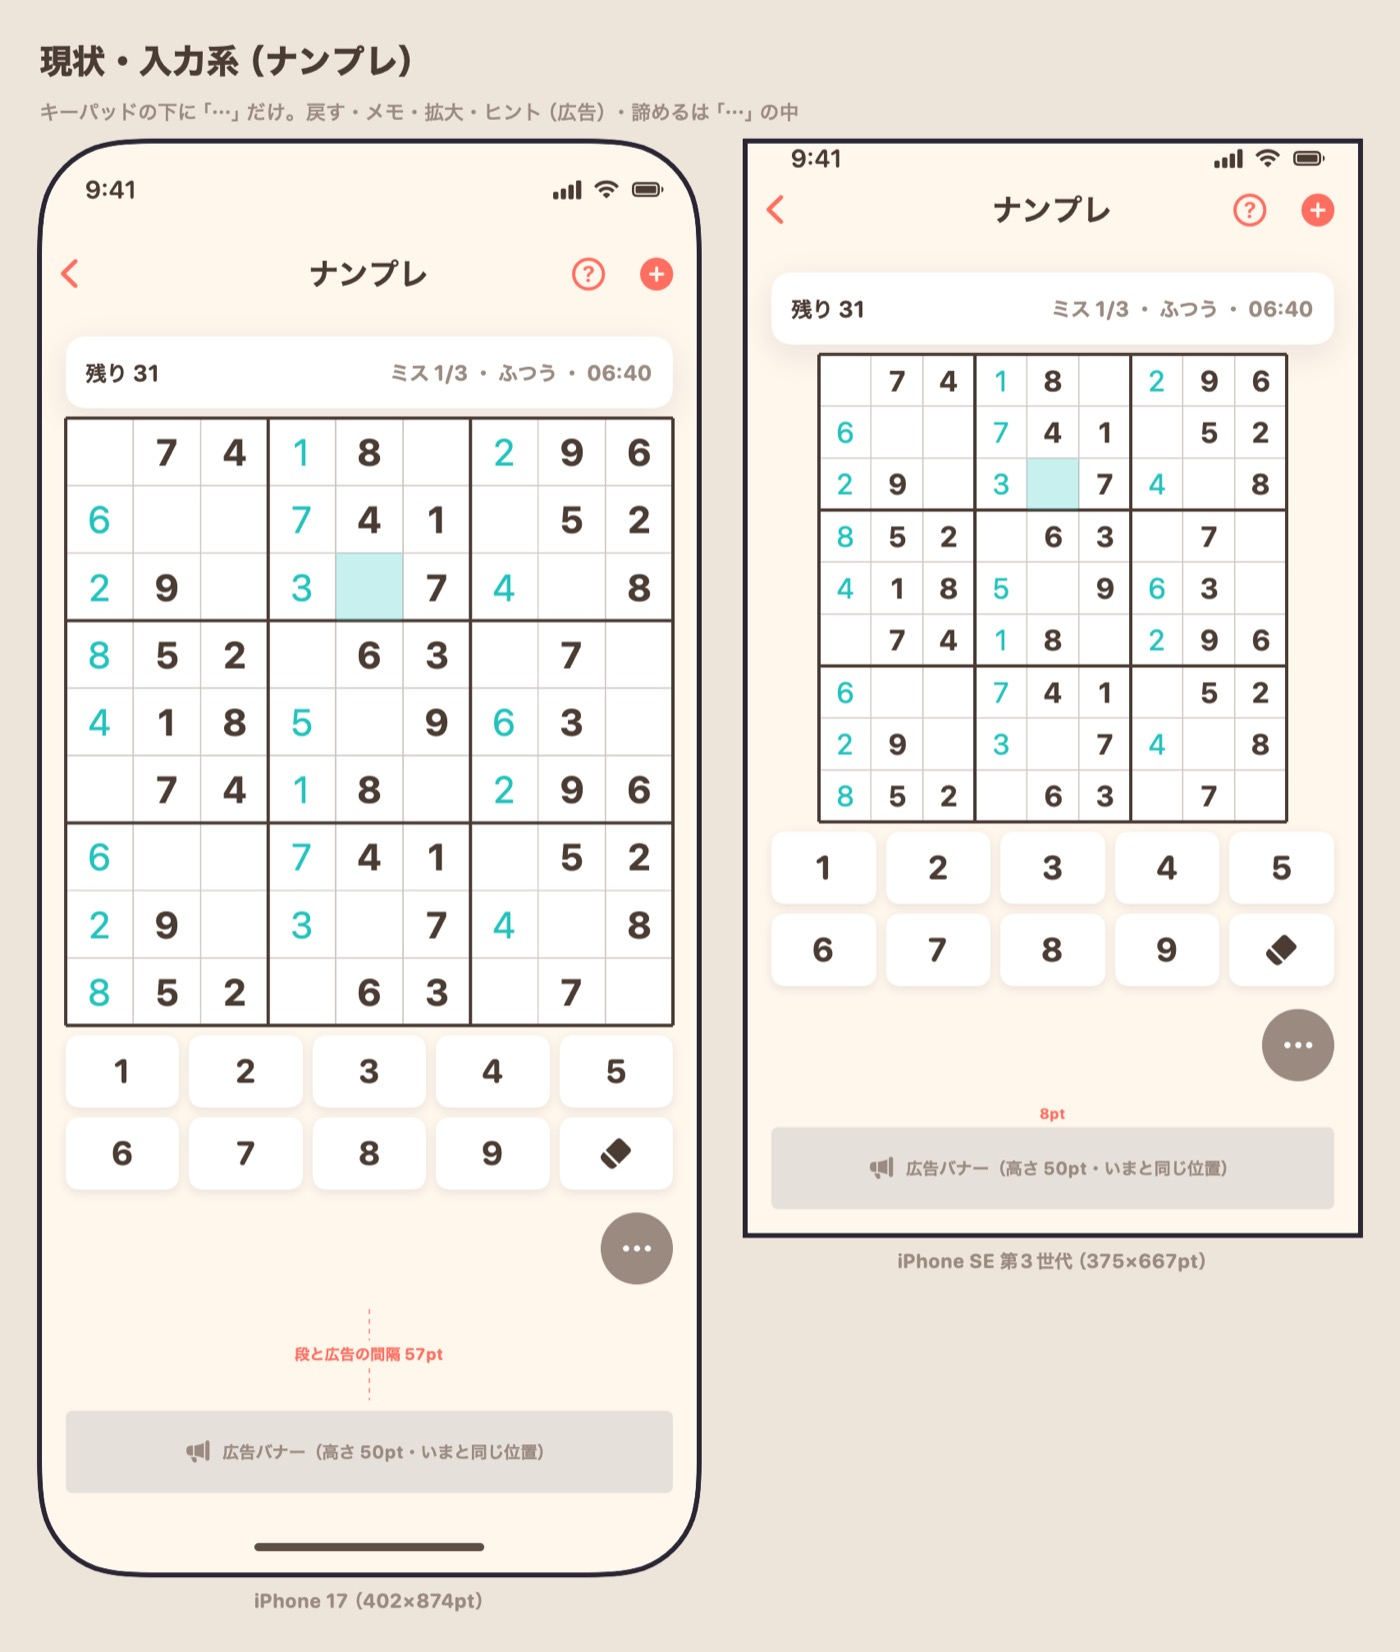
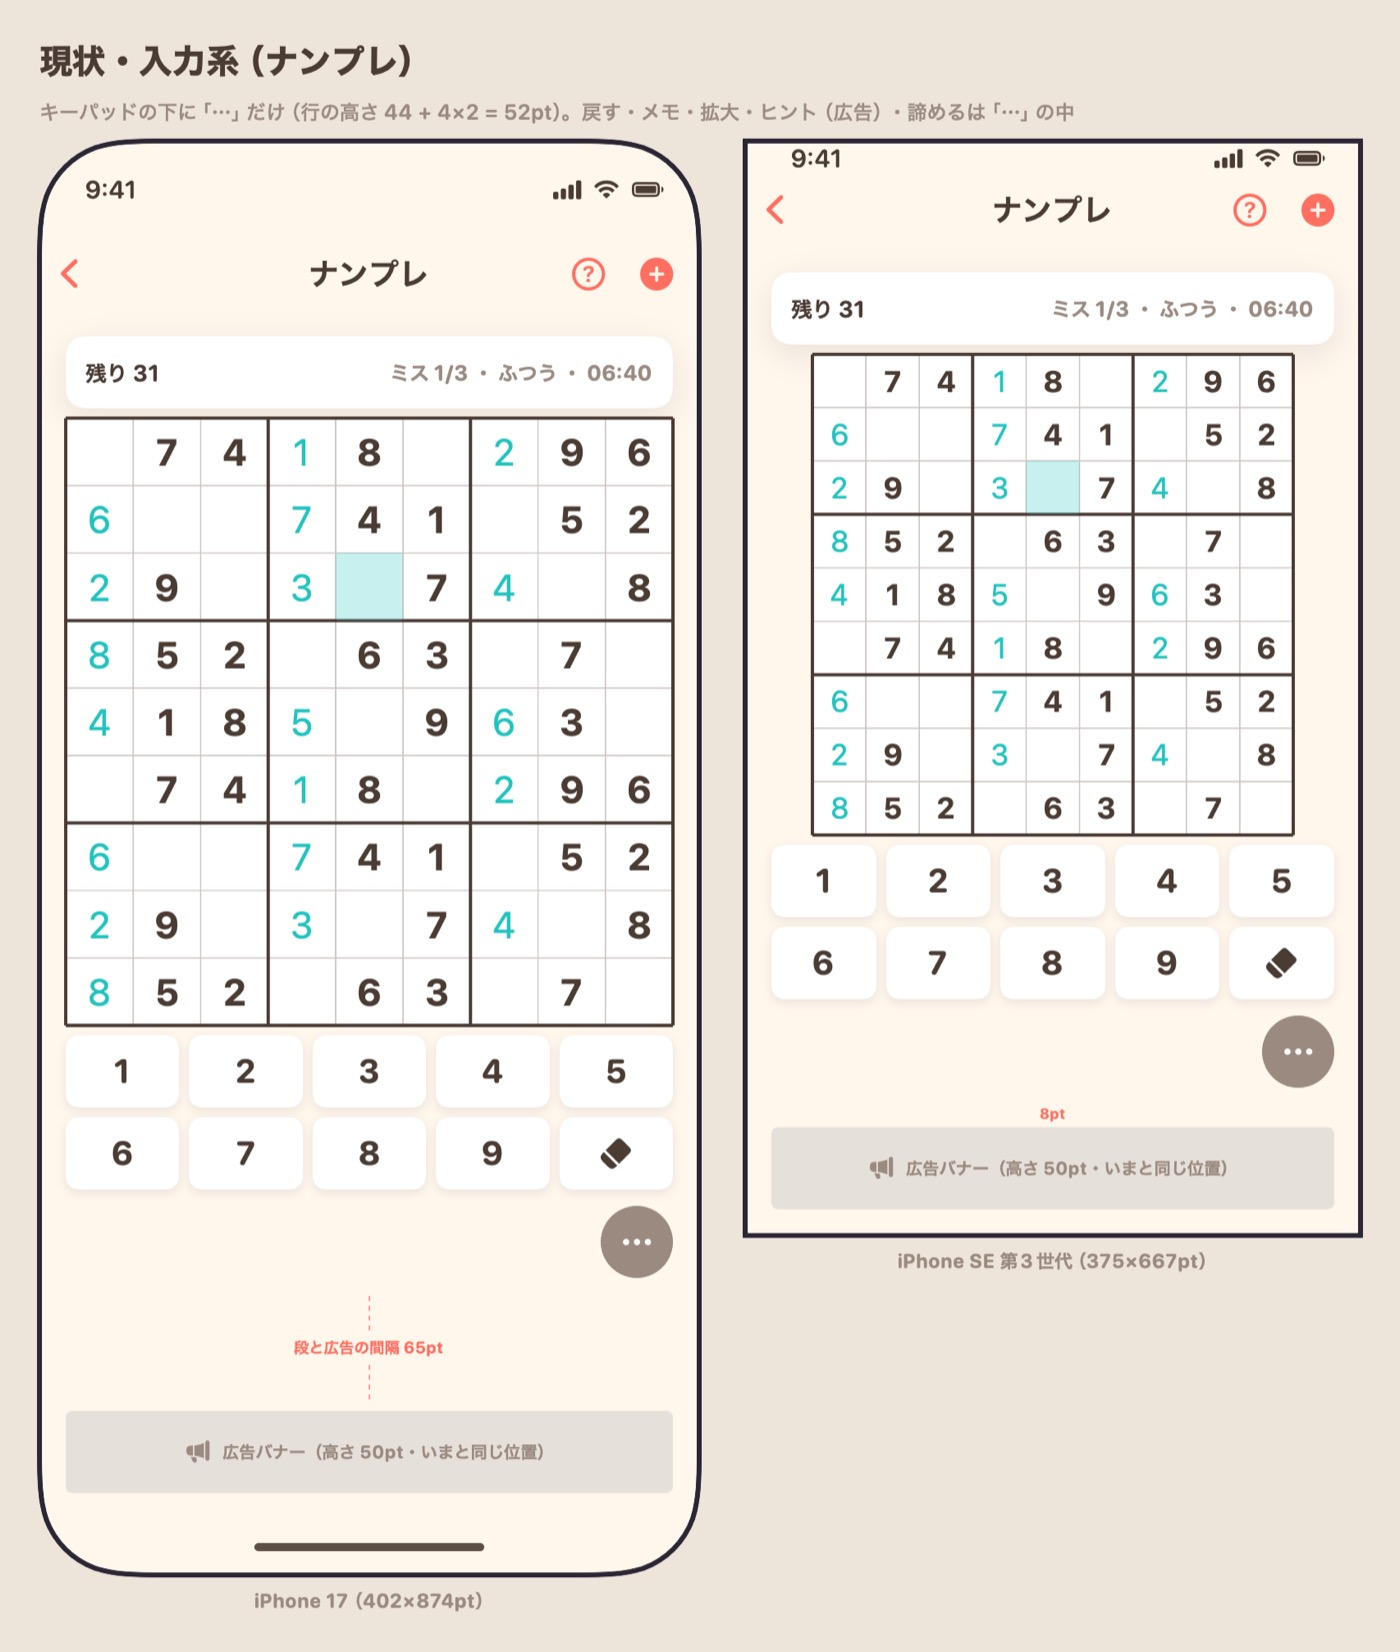
docs(design): 操作の段モックの前提を訂正（今の「⋯」の行は 46/52/60pt でゲームにより違う）（#1834）
verifier の指摘 3 件を反映。盤ゲーム 5 本の「⋯」の行は 44+1×2=46pt、ナンプレは 52pt、花札 48pt で、60pt なのは 6 本だけ。
「段を 60pt にしても盤は縮まない」を撤回し、余白を各ゲームの今の値に揃えれば縮まないと書き直した。
「⋯」の行を持つ本数を 17→13 に、大富豪の投了の「上がり後は薄く」を「メニューごと非表示」に訂正。
現状 2 枚（将棋・ナンプレ）は実際の行の高さで描き直した。

diff --git a/docs/design/action-row/mock.swift b/docs/design/action-row/mock.swift
@@ -105,6 +105,8 @@ enum RowStyle: String { case current = "現状", a = "A", b = "B", c = "C" }
 /// いまの「⋯」の行（GameOverflowBar）。左端に表示だけの文字、右端に丸 44pt。
 struct RowCurrent: View {
     var caption: String?
+    /// 上下の余白。盤ゲーム 5 本は 1pt（`BoardGameControlMetrics.rowVerticalPadding`）、ナンプレは 4pt、他は既定の 8pt。
+    var verticalPadding: CGFloat = 8
     var body: some View {
         HStack(spacing: 8) {
             if let caption { Text(caption).rounded(12, .bold).foregroundStyle(T.inkSub) }
@@ -112,7 +114,7 @@ struct RowCurrent: View {
             MoreButton()
         }
         .frame(minHeight: 44)
-        .padding(.vertical, 8)
+        .padding(.vertical, verticalPadding)
     }
 }
 
@@ -262,9 +264,9 @@ struct MoreButton: View {
     }
 }
 
-@ViewBuilder func actionRow(_ style: RowStyle, _ actions: [Action], caption: String?) -> some View {
+@ViewBuilder func actionRow(_ style: RowStyle, _ actions: [Action], caption: String?, currentPadding: CGFloat = 8) -> some View {
     switch style {
-    case .current: RowCurrent(caption: caption)
+    case .current: RowCurrent(caption: caption, verticalPadding: currentPadding)
     case .a: RowA(actions: actions)
     case .b: RowB(actions: actions)
     case .c: RowC(actions: actions)
@@ -701,7 +703,7 @@ struct Screen: View {
                     // 大富豪は進行ボタン（出す・パス）が段の位置を占める。補助操作は投了だけなので「⋯」に残る
                     EmptyView()
                 } else {
-                    actionRow(style, actions, caption: caption)
+                    actionRow(style, actions, caption: caption, currentPadding: currentRowPadding)
                 }
                 GapMarker(minimum: gapMinimum)
                 Banner()
@@ -719,6 +721,15 @@ struct Screen: View {
         case .daifugo: "大富豪"
         case .concentration: "神経衰弱"
         case .runner: "チャリンコおじさん"
+        }
+    }
+
+    /// いまの「⋯」の行の上下余白（release/v1.1.10 の実値）。
+    var currentRowPadding: CGFloat {
+        switch group {
+        case .shogi, .go: 1      // BoardGameControlMetrics.rowVerticalPadding → 行は 46pt
+        case .sudoku: 4          // SudokuView: verticalPadding: 4 → 52pt
+        default: 8               // GameOverflowBar の既定 → 60pt
         }
     }
 
@@ -890,8 +901,8 @@ MainActor.assumeIsolated {
     let dir = URL(fileURLWithPath: CommandLine.arguments.count > 1 ? CommandLine.arguments[1] : ".")
 
     // 現状（比較の基準）
-    sheet(dir, "00-current-shogi.png", "現状・対局系（将棋）", "待った・ヒント・投了はすべて右下の「⋯」の中。段には何も出ていない（v1.1.7 の #1468 以降）", .shogi, .current, [])
-    sheet(dir, "00-current-sudoku.png", "現状・入力系（ナンプレ）", "キーパッドの下に「⋯」だけ。戻す・メモ・拡大・ヒント（広告）・諦めるは「⋯」の中", .sudoku, .current, [])
+    sheet(dir, "00-current-shogi.png", "現状・対局系（将棋）", "待った・ヒント・投了はすべて右下の「⋯」の中。行の高さは 44 + 1×2 = 46pt（盤ゲーム 5 本）。段を 60pt にすると SE では盤がその差ぶん縮みうる", .shogi, .current, [])
+    sheet(dir, "00-current-sudoku.png", "現状・入力系（ナンプレ）", "キーパッドの下に「⋯」だけ（行の高さ 44 + 4×2 = 52pt）。戻す・メモ・拡大・ヒント（広告）・諦めるは「⋯」の中", .sudoku, .current, [])
 
     // 対局系
     sheet(dir, "01-shogi-A.png", "案A・対局系（将棋：待った → ヒント → ⋯）", "役割の色（待った＝ティール・ヒント＝黄）で塗ったカプセルを等幅で並べ、右端に今の「⋯」。広告が要るときは「▶ 広告を見て」、無料のあいだは「あと◯回」を 2 行目に", .shogi, .a, shogiActions)

diff --git a/docs/design/action-row/README.md b/docs/design/action-row/README.md
@@ -82,7 +82,7 @@
 | ブラックジャック | 結果まで進める | 段（ディーラーが引く間） | なし | — | `BlackjackView.swift:374-382` |
 | ブラックジャック | 広告を見て 2000 枚で復活 | 幕（セッション終了） | 1 セッション 1 回（`revival`） | 条件外は非表示 | `BlackjackView.swift:506-522` |
 | 大富豪 | パス／n 枚出す | 段 | なし | 薄く | `GameDaifugo/DaifugoView.swift:319-326` |
-| 大富豪 | 投了（確認あり） | 行の右端の `ellipsis.circle`（素の `Menu`。丸 44pt ではない） | なし | 上がり後は薄く | `DaifugoView.swift:330-340` |
+| 大富豪 | 投了（確認あり） | 行の右端の `ellipsis.circle`（素の `Menu`。丸 44pt ではない） | なし | 上がり後はメニューごと非表示（`canResign` が false になるのは上がり後だけ） | `DaifugoView.swift:309-316,330-340` |
 | 大富豪 | 結果まで進める | 段（自分が上がった後） | なし | — | `DaifugoView.swift:309-316` |
 | 大富豪 | 広告を見て次のカード交換を免除 | 幕（リザルト・大貧民のとき） | 1 回（`revival`） | 条件外は非表示 | `DaifugoView.swift:360-380` |
 | 花札こいこい | こいこい／あがり | 段（こいこい局面） | なし | あがりは条件で薄く | `GameHanafuda/HanafudaView.swift:340-344` |
@@ -111,9 +111,14 @@
 
 ### 1-e. 画面の縦構成（共通）
 
-対局系・一人用パズル系の 17 本は **帯 → 盤 → 「⋯」の行（44pt + 上下 8pt = 60pt）→ Spacer → バナー（50pt）** で揃っている
+「⋯」の行を持つ 13 本（盤ゲーム 5 本 + `GameOverflowBar` を直接呼ぶ 8 本）は **帯 → 盤 → 「⋯」の行 → Spacer → バナー（50pt）** で揃っている
 （`GameOverflowBar`・`GameControlArea`・#1485）。例外は上の 1-c・1-d と、キーパッドが盤の直下に入るナンプレ、
 「⋯」の行を盤と同じ `GeometryReader` に入れている神経衰弱・花札。
+
+**「⋯」の行の高さはゲームで違う**（verifier 指摘・2026-10-06 訂正）。44pt の丸に足す上下の余白が、盤ゲーム 5 本は 1pt
+（`Core/BoardGameChrome.swift:164` `rowVerticalPadding`・**46pt**）、ナンプレは 4pt（`SudokuView.swift:600`・**52pt**）、
+花札は 2pt（`HanafudaView.swift:513-514`・**48pt**）、残り 6 本（ソリティア・スパイダー・フリーセル・麻雀ソリティア・
+マインスイーパー・神経衰弱）は既定の 8pt（**60pt**）。
 
 ## 2. 全ゲームを同じ段にできるか（判断）
 
@@ -133,7 +138,10 @@
 
 共通の前提（全案）:
 
-- 段の**高さは今の「⋯」の行と同じ 60pt**（44pt + 上下 8pt）。盤の大きさは変えない（#139・#148 で揃えた高さを崩さない）。
+- 段の高さは **44pt + 上下 8pt = 60pt** で描いた。これは `GameOverflowBar` の既定値で、6 本では今と同じだが、
+  **盤ゲーム 5 本（今 46pt）では 14pt、ナンプレ（52pt）では 8pt 高くなる**。余白を各ゲームの今の値に合わせれば
+  盤は縮まない（44pt の枠は変わらないため）。SE でどれだけ盤が縮むかは実装時に実測する（オセロ・五目は
+  `GameControlArea` が終局後の高さで予約しているので変わらない可能性が高く、将棋・チェスは #1689 で予約を外したので縮みうる）。
 - 段は盤のすぐ下、余白は段と広告のあいだ（#1485 と同じ）。SE では余白が 8pt まで詰まる（破線で実測値を描いた）。
 - 「⋯」は今の丸 44pt のまま右端。設定・遊び方はヘッダーの「？」に残す。
 
@@ -180,7 +188,9 @@
 
 ## 6. モックを作って分かったこと（判断材料）
 
-- **段の高さを今の 60pt に揃えれば盤は 1pt も縮まない**。SE でも将棋の盤は今と同じ寸法で描けている（00 と 01 を比較）。
+- **段のボタンは今の「⋯」と同じ 44pt なので、上下の余白を今の各ゲームの値（盤ゲーム 1pt・ナンプレ 4pt・他 8pt）に揃えれば盤は縮まない**。
+  モックは余白 8pt（60pt）で描いているため、将棋の SE では現状（00・46pt）より段が 14pt 高く、盤がその分縮んで見える（00 と 01 を比較）。
+  余白をどこまで詰めるか（1pt だと段が盤と密着する）は実装時の論点。
 - **SE で段に入るのは 2 個 + ⋯ まで**（案A）。3 個目を入れると「広告を見て」の 2 行目が縮む（07 の右）。麻雀ソリティアだけが 3 個必要で、ここをどうするか（並べ替えを「⋯」へ／案B の文字量）が決めどころ。
 - **広告の入口が段に戻るのは 12 本**（①②）。③④の 11 本は段を作っても広告の入口は幕のままなので、`reward_request` の回復には寄与しない。
 - **切り替え（メモ・旗・拡大）の見せ方が案を分ける**。案A はオンを紫の面 + チェックで表し、案B はアイコンの背を薄く塗るだけ。「拡大」は 5 本にあり、段に出すと 1 枠を常に食う。
